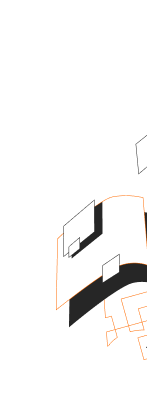
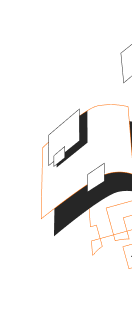
Edit styles.css and index.html files

Changed region(s): [[0.303, 0.3113, 1.0, 0.8774], [0.9091, 0.1415, 1.0, 0.2547], [0.4545, 0.3679, 0.5152, 0.3962]]

diff --git a/styles.css b/styles.css
@@ -16,174 +16,140 @@
   padding: 0;
   margin: 0;
 }
-
-.headline {
-  background-color: #1c1a19;
-  margin: 0;
+body {
   height: 100%;
+  width: 100%;
+}
+
+header {
+  top: 0;
   width: 100%;
   display: flex;
   flex-direction: column;
-  padding: 0;
-  position: absolute;
-  flex-wrap: nowrap;
+}
+.headbar-menu {
+  height: 4.5rem;
+  width: 100%;
+  padding: 0.625rem 0.75rem;
+  background: #3c3a39;
+  display: flex;
+  justify-content: space-between;
+  align-items: center;
+  flex-direction: row;
+  margin-right: 6.25rem;
+}
+.fa-bars {
+  color: white;
 }
 
-.headbar-menu {
-  display: flex;
-  background: #3c3a39;
-  width: 100%;
-  height: 4.5rem;
-  border: 0.125rem solid grey;
-  align-items: center;
-  justify-content: space-between;
-  flex-direction: row;
-  padding: 0.625rem 0.75rem;
-  margin-right: 100%;
-  flex-wrap: nowrap;
-}
 
 .logo {
-  padding-inline-start: 2%;
   font-family: 'Roboto', sans-serif;
   font-style: normal;
   font-weight: 1em;
-  font-size: 1.125rem;
-  line-height: 1.125rem;
+  font-size: 18pt;
+  line-height: 1.5rem;
   align-items: center;
   text-align: center;
   color: white;
   order: 0;
-  margin-left: 0.625rem;
+  margin-left: 10px;
   text-decoration: none;
 }
 
-.container_text {
+.headline {
+  overflow: hidden;
+  background-image: url(./PImages/Illustration.png);
+  background-position-y: 100%;
+  background-color: #1c1a19;
   display: flex;
   flex-direction: column;
-  background-image: url(PImages/Illustration.png);
-  background-color: #1c1a19;
   justify-content: space-between;
   text-align: left;
   height: auto;
   width: 100%;
   padding: 7.75rem 1.5rem;
-  gap: 1rem;
+  gap: 0.75rem;
   background-position: right bottom;
   background-size: 8.75rem;
   background-repeat: no-repeat;
-  overflow: hidden;
-  flex: 1;
-  margin-top: 0;
-}
-
-.ptext {
-  color: #ff6b00;
-  font-size: 327px;
-  margin-top: 0%;
-  width: 20.437rem;
-  top: 0.625rem;
-  font-family: 'Crete Round', sans-serif;
-  font-weight: 400;
-  line-height: 3rem;
-}
-
-.stext {
-  font-family: 'Roboto', sans-serif;
-  font-style: bold;
-  font-size: 1.6rem;
-  line-height: 2rem;
-  width: 85%;
-  height: 1.6875rem;
-  text-align: left;
-  align-items: center;
-  color: #fff5e1;
-  margin-top: 0.625rem;
-  margin-bottom: 0.625rem;
-  font-weight: 700;
-}
-
-.description {
-  font-family: 'Poppins', sans-serif;
-  font-weight: 400;
-  font-size: 1.25rem;
-  line-height: 1.5rem;
-  color: #fff;
-  margin-top: 0;
-  margin-bottom: 0.8125rem;
-  font-style: normal;
-  width: 100%;
-  text-align: left;
-}
-
-.icon-wrap {
-  display: flex;
-  flex-direction: row;
-  align-items: center;
-  padding: 12px 151px 120px 24px;
-  height: 2.5rem;
-  gap: 1.125rem;
-}
-
-li {
-  list-style-type: none;
 }
 
 .navicon {
   display: flex;
-  width: 100vh;
+  flex-direction: row;
+  align-items: baseline;
+  padding: 0.75rem 9.437rem 7.5rem 1.5rem;
+  height: 2.5rem;
+  gap: 1.125rem;
+  margin-top: 1.87rem;
+}
+
+.ptext {
+  color: #ff6b00;
+  /* width: 87.2%; */
+  width: 90%;
+  font-family: 'Crete Round', serif;
+  font-style: normal;
+  font-weight: 400;
+  font-size: 3.5rem;
+  line-height: 4rem;
+  letter-spacing: 0.0231rem;
+  text-align: left;
+  margin-left: 1.5rem;
+  display: block;
+
+}
+
+.stext {
+  width: 87.2%;
+  height: 1.6875rem;
+  font-family: 'Roboto', sans-serif;
+  font-style: normal;
+  font-weight: 700;
+  font-size: 1.5rem;
+  line-height: 2rem;
+  align-items: center;
+  color: #fff;
+  margin-top: 0.75rem;
+  margin-bottom: 0.75rem;
+  margin-left: 1.5rem;
+}
+
+.description {
+  width: 87.2%;
+  font-family: 'Inter', sans-serif;
+  font-style: normal;
+  font-weight: 400;
+  font-size: 1.25rem;
+  line-height: 2rem;
+  color: #f4f5f7;
+  margin-top: 0;
+  margin-bottom: 0.75rem;
+  margin-left: 1.5rem;
+}
+
+.medium {
+  padding-bottom: 0.031rem;
+  height: 1rem;
+  width: 1.25rem;
+}
+.github{
   height: 1.25rem;
-  justify-content: space-between;
+  width: 1.124rem;
 }
 
-i {
-  color: #dbd8d7;
+.twitter {
+  height: 1.2475rem;
+  width: 1.249rem;
 }
 
-@media screen and (min-width: 375px) {
-  .container_text {
-    width: 100%;
-    height: 100%;
-    margin-top: 4%;
-    padding-top: 0.4rem;
-    gap: 0.8rem;
-  }
+.angeli {
+  height: 1.25rem;
+  width: 0.885rem;
+}
 
-  .headbar-menu {
-    width: 100%;
-  }
-
-  .headline {
-    width: 100%;
-    height: 100%;
-  }
-
-  .description {
-    font-size: 1rem;
-    width: 85%;
-  }
-
-  .stext {
-    font-size: 1.2rem;
-    width: 85%;
-  }
-
-  .ptext {
-    font-size: 2.2rem;
-    width: 80%;
-  }
-
-  .navicon {
-    width: 60vh;
-    justify-content: space-between;
-    display: flex;
-  }
-
-  .icon-wrap {
-    display: flex;
-    justify-content: space-between;
-    padding: 12px 151px 120px 24px;
-    height: 2.5rem;
-    gap: 1.125rem;
-  }
+.linkedin {
+  height: 1.25rem;
+  width: 1.25rem;
 }

diff --git a/index.html b/index.html
@@ -14,11 +14,10 @@
     <!-- Toolbar Header Section starts-->
     <header> 
         <div id= "head-wrap" class="headbar">
-    
-  <nav class = "headbar-menu">
+    <nav class = "headbar-menu">
     <a href = "#" class="logo">My Logo</a>
     <i class="fas fa-bars fa-lg"></i>
-  </nav>
+    </nav>
 </div>
 </header>
 <!-- Toolbar Header Section ends -->
@@ -27,17 +26,17 @@
     <!-- Headline Section Start -->
     <section class="headline">
     <div class="container_text">
-        <h1 class="ptext">Hey There. <br/>I'm Zuwairanajma.</h1>
+        <h1 class="ptext">Hey There. <br/>I'm Zuwaira.</h1>
         <h3 class="stext">I'm a Software Developer</h3>
         <p class="description">I can help you build a product, feature or website Look through some of my work and experience! If you like what you see and have a project you need coded, 
             don’t hesitate to contact me.</p>
             <nav class="icon-wrap">
                 <ul class="navicon">
-               <li><a href="https://github.com/Zuwairanajma"><img src ="PImages/GitHubv1.png" alt = "Github Icon"></a></li>
-                <li><a href="https://www.linkedin.com/in/zuwaira-sadiq-566b891b0?"><img src ="PImages/Linkedinv2.png" alt = "Linkedin Icon"></a></li> 
-                   <li><a href="https://twitter.com/@SadiqJuwairiyya"><img src ="PImages/Vector3.png" alt = "Angellist Icon"></a> </li>
-                   <li><a href="https://twitter.com/@SadiqJuwairiyya"><img src ="PImages/Twitter4.png" alt = "Twitter Icon"></a></li>
-                   <li><a href="https://twitter.com/@SadiqJuwairiyya"><img src ="PImages/Vector5.png" alt = "Medium Icon"></a></li>
+                   <li><a href="https://github.com/Zuwairanajma"><img class="github" src="PImages/GitHub.png" alt="Github Icon"></a></li>
+                   <li><a href="https://www.linkedin.com/in/zuwaira-sadiq-566b891b0?"><img class="linkedin" src ="PImages/Linkedin.png" alt = "Linkedin Icon"></a></li> 
+                   <li><a href="#"><img class ="angeli" src ="PImages/Vector3.png" alt="Angellist Icon"></a></li>
+                   <li><a href="https://twitter.com/@SadiqJuwairiyya"><img class ="twitter" src ="PImages/Twitter.png" alt ="Twitter Icon"></a></li>
+                   <li><a href="#"><img class ="medium" src="PImages/Vector5.png" alt ="Medium Icon"></a></li>
                 </ul>
             </nav>
         </div>
